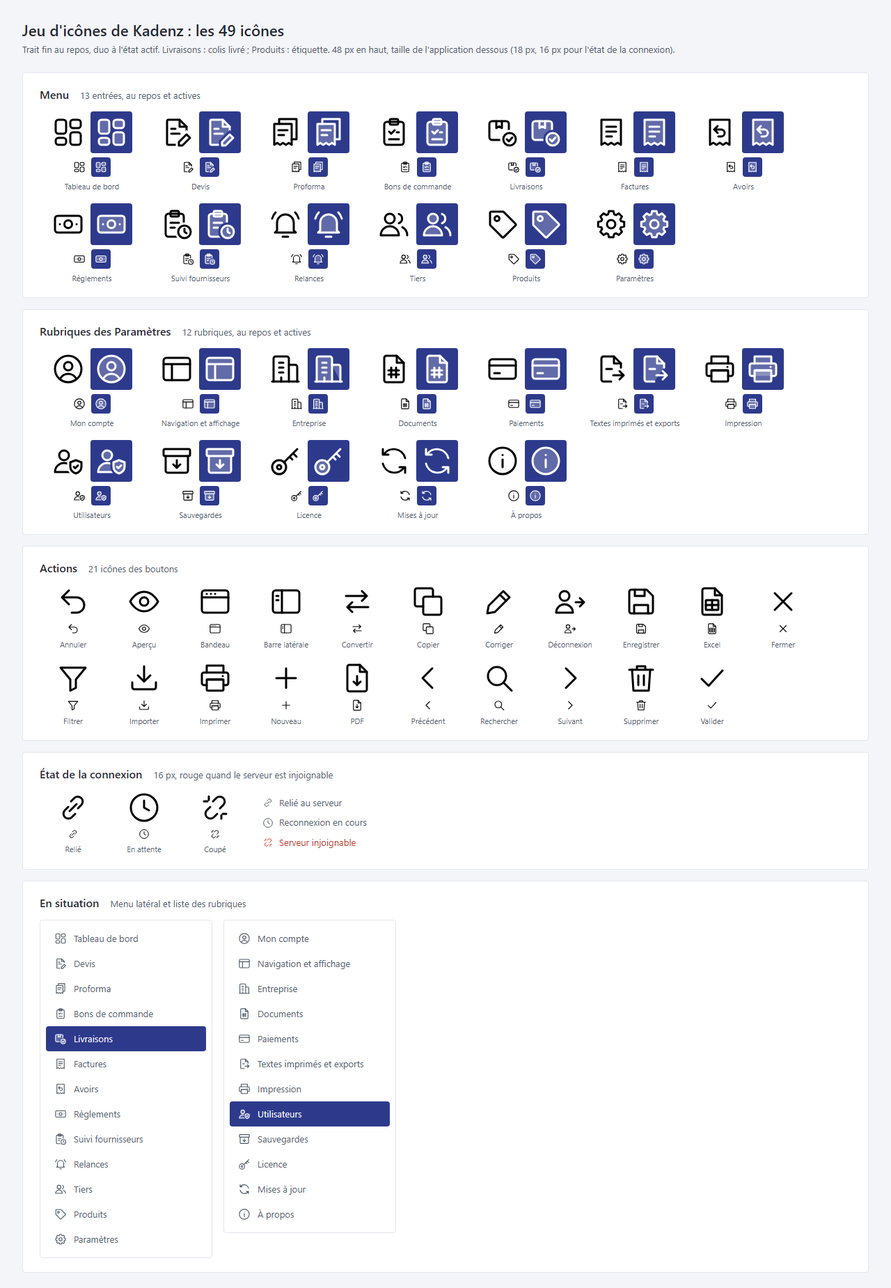
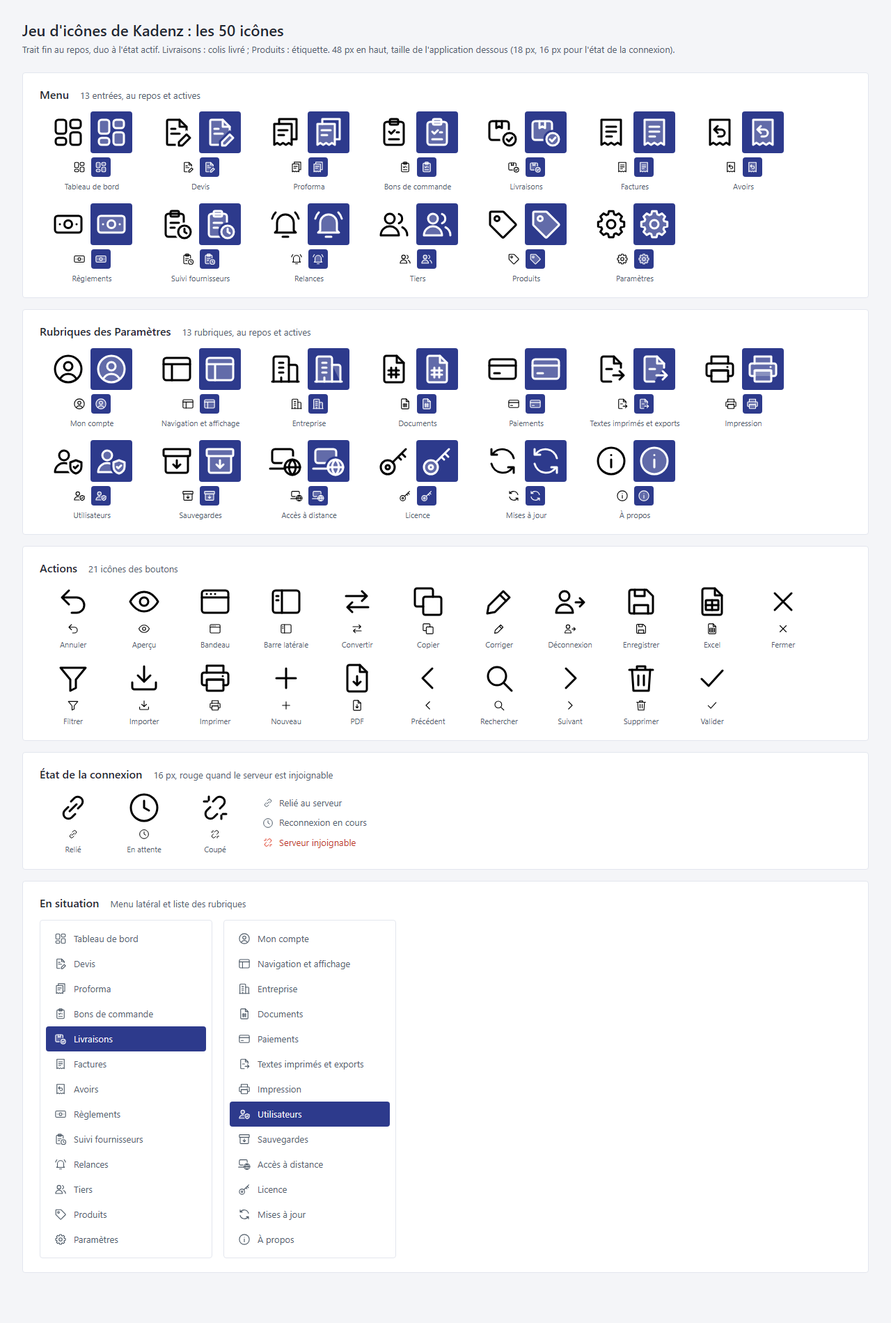
Interface : icône de la rubrique Accès à distance (portable et globe, version active teintée)

diff --git a/docs/marque/propositions-2026-11-14-icones/planche-v3.html b/docs/marque/propositions-2026-11-14-icones/planche-v3.html
@@ -26,17 +26,17 @@ img.gris { filter: invert(36%) sepia(10%) saturate(700%) hue-rotate(170deg) brig
 img.blanc { filter: invert(1); }
 img.rouge { filter: invert(27%) sepia(68%) saturate(2400%) hue-rotate(347deg) brightness(88%); }
 </style></head><body>
-<header><h1>Jeu d'icônes de Kadenz : les 49 icônes</h1>
+<header><h1>Jeu d'icônes de Kadenz : les 50 icônes</h1>
 <p>Trait fin au repos, duo à l'état actif. Livraisons : colis livré ; Produits : étiquette. 48 px en haut, taille de l'application dessous (18 px, 16 px pour l'état de la connexion).</p></header>
 <section><div class="tete"><h2>Menu</h2><p>13 entrées, au repos et actives</p></div>
 <div class="grille"><figure><div class="paire"><img src="icones/jeu/menu/tableau-de-bord.svg" width="48" height="48"><span class="tuile"><img class="blanc" src="icones/jeu/menu/tableau-de-bord-actif.svg" width="48" height="48"></span></div><div class="paire petite"><img src="icones/jeu/menu/tableau-de-bord.svg" width="18" height="18"><span class="tuile"><img class="blanc" src="icones/jeu/menu/tableau-de-bord-actif.svg" width="18" height="18"></span></div><figcaption>Tableau de bord</figcaption></figure><figure><div class="paire"><img src="icones/jeu/menu/devis.svg" width="48" height="48"><span class="tuile"><img class="blanc" src="icones/jeu/menu/devis-actif.svg" width="48" height="48"></span></div><div class="paire petite"><img src="icones/jeu/menu/devis.svg" width="18" height="18"><span class="tuile"><img class="blanc" src="icones/jeu/menu/devis-actif.svg" width="18" height="18"></span></div><figcaption>Devis</figcaption></figure><figure><div class="paire"><img src="icones/jeu/menu/proforma.svg" width="48" height="48"><span class="tuile"><img class="blanc" src="icones/jeu/menu/proforma-actif.svg" width="48" height="48"></span></div><div class="paire petite"><img src="icones/jeu/menu/proforma.svg" width="18" height="18"><span class="tuile"><img class="blanc" src="icones/jeu/menu/proforma-actif.svg" width="18" height="18"></span></div><figcaption>Proforma</figcaption></figure><figure><div class="paire"><img src="icones/jeu/menu/bons-commande.svg" width="48" height="48"><span class="tuile"><img class="blanc" src="icones/jeu/menu/bons-commande-actif.svg" width="48" height="48"></span></div><div class="paire petite"><img src="icones/jeu/menu/bons-commande.svg" width="18" height="18"><span class="tuile"><img class="blanc" src="icones/jeu/menu/bons-commande-actif.svg" width="18" height="18"></span></div><figcaption>Bons de commande</figcaption></figure><figure><div class="paire"><img src="icones/jeu/menu/livraisons.svg" width="48" height="48"><span class="tuile"><img class="blanc" src="icones/jeu/menu/livraisons-actif.svg" width="48" height="48"></span></div><div class="paire petite"><img src="icones/jeu/menu/livraisons.svg" width="18" height="18"><span class="tuile"><img class="blanc" src="icones/jeu/menu/livraisons-actif.svg" width="18" height="18"></span></div><figcaption>Livraisons</figcaption></figure><figure><div class="paire"><img src="icones/jeu/menu/factures.svg" width="48" height="48"><span class="tuile"><img class="blanc" src="icones/jeu/menu/factures-actif.svg" width="48" height="48"></span></div><div class="paire petite"><img src="icones/jeu/menu/factures.svg" width="18" height="18"><span class="tuile"><img class="blanc" src="icones/jeu/menu/factures-actif.svg" width="18" height="18"></span></div><figcaption>Factures</figcaption></figure><figure><div class="paire"><img src="icones/jeu/menu/avoirs.svg" width="48" height="48"><span class="tuile"><img class="blanc" src="icones/jeu/menu/avoirs-actif.svg" width="48" height="48"></span></div><div class="paire petite"><img src="icones/jeu/menu/avoirs.svg" width="18" height="18"><span class="tuile"><img class="blanc" src="icones/jeu/menu/avoirs-actif.svg" width="18" height="18"></span></div><figcaption>Avoirs</figcaption></figure><figure><div class="paire"><img src="icones/jeu/menu/reglements.svg" width="48" height="48"><span class="tuile"><img class="blanc" src="icones/jeu/menu/reglements-actif.svg" width="48" height="48"></span></div><div class="paire petite"><img src="icones/jeu/menu/reglements.svg" width="18" height="18"><span class="tuile"><img class="blanc" src="icones/jeu/menu/reglements-actif.svg" width="18" height="18"></span></div><figcaption>Règlements</figcaption></figure><figure><div class="paire"><img src="icones/jeu/menu/suivi-fournisseurs.svg" width="48" height="48"><span class="tuile"><img class="blanc" src="icones/jeu/menu/suivi-fournisseurs-actif.svg" width="48" height="48"></span></div><div class="paire petite"><img src="icones/jeu/menu/suivi-fournisseurs.svg" width="18" height="18"><span class="tuile"><img class="blanc" src="icones/jeu/menu/suivi-fournisseurs-actif.svg" width="18" height="18"></span></div><figcaption>Suivi fournisseurs</figcaption></figure><figure><div class="paire"><img src="icones/jeu/menu/relances.svg" width="48" height="48"><span class="tuile"><img class="blanc" src="icones/jeu/menu/relances-actif.svg" width="48" height="48"></span></div><div class="paire petite"><img src="icones/jeu/menu/relances.svg" width="18" height="18"><span class="tuile"><img class="blanc" src="icones/jeu/menu/relances-actif.svg" width="18" height="18"></span></div><figcaption>Relances</figcaption></figure><figure><div class="paire"><img src="icones/jeu/menu/tiers.svg" width="48" height="48"><span class="tuile"><img class="blanc" src="icones/jeu/menu/tiers-actif.svg" width="48" height="48"></span></div><div class="paire petite"><img src="icones/jeu/menu/tiers.svg" width="18" height="18"><span class="tuile"><img class="blanc" src="icones/jeu/menu/tiers-actif.svg" width="18" height="18"></span></div><figcaption>Tiers</figcaption></figure><figure><div class="paire"><img src="icones/jeu/menu/produits.svg" width="48" height="48"><span class="tuile"><img class="blanc" src="icones/jeu/menu/produits-actif.svg" width="48" height="48"></span></div><div class="paire petite"><img src="icones/jeu/menu/produits.svg" width="18" height="18"><span class="tuile"><img class="blanc" src="icones/jeu/menu/produits-actif.svg" width="18" height="18"></span></div><figcaption>Produits</figcaption></figure><figure><div class="paire"><img src="icones/jeu/menu/parametres.svg" width="48" height="48"><span class="tuile"><img class="blanc" src="icones/jeu/menu/parametres-actif.svg" width="48" height="48"></span></div><div class="paire petite"><img src="icones/jeu/menu/parametres.svg" width="18" height="18"><span class="tuile"><img class="blanc" src="icones/jeu/menu/parametres-actif.svg" width="18" height="18"></span></div><figcaption>Paramètres</figcaption></figure></div></section>
-<section><div class="tete"><h2>Rubriques des Paramètres</h2><p>12 rubriques, au repos et actives</p></div>
-<div class="grille"><figure><div class="paire"><img src="icones/jeu/menu/mon-compte.svg" width="48" height="48"><span class="tuile"><img class="blanc" src="icones/jeu/menu/mon-compte-actif.svg" width="48" height="48"></span></div><div class="paire petite"><img src="icones/jeu/menu/mon-compte.svg" width="18" height="18"><span class="tuile"><img class="blanc" src="icones/jeu/menu/mon-compte-actif.svg" width="18" height="18"></span></div><figcaption>Mon compte</figcaption></figure><figure><div class="paire"><img src="icones/jeu/menu/navigation.svg" width="48" height="48"><span class="tuile"><img class="blanc" src="icones/jeu/menu/navigation-actif.svg" width="48" height="48"></span></div><div class="paire petite"><img src="icones/jeu/menu/navigation.svg" width="18" height="18"><span class="tuile"><img class="blanc" src="icones/jeu/menu/navigation-actif.svg" width="18" height="18"></span></div><figcaption>Navigation et affichage</figcaption></figure><figure><div class="paire"><img src="icones/jeu/menu/entreprise.svg" width="48" height="48"><span class="tuile"><img class="blanc" src="icones/jeu/menu/entreprise-actif.svg" width="48" height="48"></span></div><div class="paire petite"><img src="icones/jeu/menu/entreprise.svg" width="18" height="18"><span class="tuile"><img class="blanc" src="icones/jeu/menu/entreprise-actif.svg" width="18" height="18"></span></div><figcaption>Entreprise</figcaption></figure><figure><div class="paire"><img src="icones/jeu/menu/documents.svg" width="48" height="48"><span class="tuile"><img class="blanc" src="icones/jeu/menu/documents-actif.svg" width="48" height="48"></span></div><div class="paire petite"><img src="icones/jeu/menu/documents.svg" width="18" height="18"><span class="tuile"><img class="blanc" src="icones/jeu/menu/documents-actif.svg" width="18" height="18"></span></div><figcaption>Documents</figcaption></figure><figure><div class="paire"><img src="icones/jeu/menu/paiements.svg" width="48" height="48"><span class="tuile"><img class="blanc" src="icones/jeu/menu/paiements-actif.svg" width="48" height="48"></span></div><div class="paire petite"><img src="icones/jeu/menu/paiements.svg" width="18" height="18"><span class="tuile"><img class="blanc" src="icones/jeu/menu/paiements-actif.svg" width="18" height="18"></span></div><figcaption>Paiements</figcaption></figure><figure><div class="paire"><img src="icones/jeu/menu/exports.svg" width="48" height="48"><span class="tuile"><img class="blanc" src="icones/jeu/menu/exports-actif.svg" width="48" height="48"></span></div><div class="paire petite"><img src="icones/jeu/menu/exports.svg" width="18" height="18"><span class="tuile"><img class="blanc" src="icones/jeu/menu/exports-actif.svg" width="18" height="18"></span></div><figcaption>Textes imprimés et exports</figcaption></figure><figure><div class="paire"><img src="icones/jeu/menu/impression.svg" width="48" height="48"><span class="tuile"><img class="blanc" src="icones/jeu/menu/impression-actif.svg" width="48" height="48"></span></div><div class="paire petite"><img src="icones/jeu/menu/impression.svg" width="18" height="18"><span class="tuile"><img class="blanc" src="icones/jeu/menu/impression-actif.svg" width="18" height="18"></span></div><figcaption>Impression</figcaption></figure><figure><div class="paire"><img src="icones/jeu/menu/utilisateurs.svg" width="48" height="48"><span class="tuile"><img class="blanc" src="icones/jeu/menu/utilisateurs-actif.svg" width="48" height="48"></span></div><div class="paire petite"><img src="icones/jeu/menu/utilisateurs.svg" width="18" height="18"><span class="tuile"><img class="blanc" src="icones/jeu/menu/utilisateurs-actif.svg" width="18" height="18"></span></div><figcaption>Utilisateurs</figcaption></figure><figure><div class="paire"><img src="icones/jeu/menu/sauvegardes.svg" width="48" height="48"><span class="tuile"><img class="blanc" src="icones/jeu/menu/sauvegardes-actif.svg" width="48" height="48"></span></div><div class="paire petite"><img src="icones/jeu/menu/sauvegardes.svg" width="18" height="18"><span class="tuile"><img class="blanc" src="icones/jeu/menu/sauvegardes-actif.svg" width="18" height="18"></span></div><figcaption>Sauvegardes</figcaption></figure><figure><div class="paire"><img src="icones/jeu/menu/licence.svg" width="48" height="48"><span class="tuile"><img class="blanc" src="icones/jeu/menu/licence-actif.svg" width="48" height="48"></span></div><div class="paire petite"><img src="icones/jeu/menu/licence.svg" width="18" height="18"><span class="tuile"><img class="blanc" src="icones/jeu/menu/licence-actif.svg" width="18" height="18"></span></div><figcaption>Licence</figcaption></figure><figure><div class="paire"><img src="icones/jeu/menu/mises-a-jour.svg" width="48" height="48"><span class="tuile"><img class="blanc" src="icones/jeu/menu/mises-a-jour-actif.svg" width="48" height="48"></span></div><div class="paire petite"><img src="icones/jeu/menu/mises-a-jour.svg" width="18" height="18"><span class="tuile"><img class="blanc" src="icones/jeu/menu/mises-a-jour-actif.svg" width="18" height="18"></span></div><figcaption>Mises à jour</figcaption></figure><figure><div class="paire"><img src="icones/jeu/menu/a-propos.svg" width="48" height="48"><span class="tuile"><img class="blanc" src="icones/jeu/menu/a-propos-actif.svg" width="48" height="48"></span></div><div class="paire petite"><img src="icones/jeu/menu/a-propos.svg" width="18" height="18"><span class="tuile"><img class="blanc" src="icones/jeu/menu/a-propos-actif.svg" width="18" height="18"></span></div><figcaption>À propos</figcaption></figure></div></section>
+<section><div class="tete"><h2>Rubriques des Paramètres</h2><p>13 rubriques, au repos et actives</p></div>
+<div class="grille"><figure><div class="paire"><img src="icones/jeu/menu/mon-compte.svg" width="48" height="48"><span class="tuile"><img class="blanc" src="icones/jeu/menu/mon-compte-actif.svg" width="48" height="48"></span></div><div class="paire petite"><img src="icones/jeu/menu/mon-compte.svg" width="18" height="18"><span class="tuile"><img class="blanc" src="icones/jeu/menu/mon-compte-actif.svg" width="18" height="18"></span></div><figcaption>Mon compte</figcaption></figure><figure><div class="paire"><img src="icones/jeu/menu/navigation.svg" width="48" height="48"><span class="tuile"><img class="blanc" src="icones/jeu/menu/navigation-actif.svg" width="48" height="48"></span></div><div class="paire petite"><img src="icones/jeu/menu/navigation.svg" width="18" height="18"><span class="tuile"><img class="blanc" src="icones/jeu/menu/navigation-actif.svg" width="18" height="18"></span></div><figcaption>Navigation et affichage</figcaption></figure><figure><div class="paire"><img src="icones/jeu/menu/entreprise.svg" width="48" height="48"><span class="tuile"><img class="blanc" src="icones/jeu/menu/entreprise-actif.svg" width="48" height="48"></span></div><div class="paire petite"><img src="icones/jeu/menu/entreprise.svg" width="18" height="18"><span class="tuile"><img class="blanc" src="icones/jeu/menu/entreprise-actif.svg" width="18" height="18"></span></div><figcaption>Entreprise</figcaption></figure><figure><div class="paire"><img src="icones/jeu/menu/documents.svg" width="48" height="48"><span class="tuile"><img class="blanc" src="icones/jeu/menu/documents-actif.svg" width="48" height="48"></span></div><div class="paire petite"><img src="icones/jeu/menu/documents.svg" width="18" height="18"><span class="tuile"><img class="blanc" src="icones/jeu/menu/documents-actif.svg" width="18" height="18"></span></div><figcaption>Documents</figcaption></figure><figure><div class="paire"><img src="icones/jeu/menu/paiements.svg" width="48" height="48"><span class="tuile"><img class="blanc" src="icones/jeu/menu/paiements-actif.svg" width="48" height="48"></span></div><div class="paire petite"><img src="icones/jeu/menu/paiements.svg" width="18" height="18"><span class="tuile"><img class="blanc" src="icones/jeu/menu/paiements-actif.svg" width="18" height="18"></span></div><figcaption>Paiements</figcaption></figure><figure><div class="paire"><img src="icones/jeu/menu/exports.svg" width="48" height="48"><span class="tuile"><img class="blanc" src="icones/jeu/menu/exports-actif.svg" width="48" height="48"></span></div><div class="paire petite"><img src="icones/jeu/menu/exports.svg" width="18" height="18"><span class="tuile"><img class="blanc" src="icones/jeu/menu/exports-actif.svg" width="18" height="18"></span></div><figcaption>Textes imprimés et exports</figcaption></figure><figure><div class="paire"><img src="icones/jeu/menu/impression.svg" width="48" height="48"><span class="tuile"><img class="blanc" src="icones/jeu/menu/impression-actif.svg" width="48" height="48"></span></div><div class="paire petite"><img src="icones/jeu/menu/impression.svg" width="18" height="18"><span class="tuile"><img class="blanc" src="icones/jeu/menu/impression-actif.svg" width="18" height="18"></span></div><figcaption>Impression</figcaption></figure><figure><div class="paire"><img src="icones/jeu/menu/utilisateurs.svg" width="48" height="48"><span class="tuile"><img class="blanc" src="icones/jeu/menu/utilisateurs-actif.svg" width="48" height="48"></span></div><div class="paire petite"><img src="icones/jeu/menu/utilisateurs.svg" width="18" height="18"><span class="tuile"><img class="blanc" src="icones/jeu/menu/utilisateurs-actif.svg" width="18" height="18"></span></div><figcaption>Utilisateurs</figcaption></figure><figure><div class="paire"><img src="icones/jeu/menu/sauvegardes.svg" width="48" height="48"><span class="tuile"><img class="blanc" src="icones/jeu/menu/sauvegardes-actif.svg" width="48" height="48"></span></div><div class="paire petite"><img src="icones/jeu/menu/sauvegardes.svg" width="18" height="18"><span class="tuile"><img class="blanc" src="icones/jeu/menu/sauvegardes-actif.svg" width="18" height="18"></span></div><figcaption>Sauvegardes</figcaption></figure><figure><div class="paire"><img src="icones/jeu/menu/acces-distant.svg" width="48" height="48"><span class="tuile"><img class="blanc" src="icones/jeu/menu/acces-distant-actif.svg" width="48" height="48"></span></div><div class="paire petite"><img src="icones/jeu/menu/acces-distant.svg" width="18" height="18"><span class="tuile"><img class="blanc" src="icones/jeu/menu/acces-distant-actif.svg" width="18" height="18"></span></div><figcaption>Accès à distance</figcaption></figure><figure><div class="paire"><img src="icones/jeu/menu/licence.svg" width="48" height="48"><span class="tuile"><img class="blanc" src="icones/jeu/menu/licence-actif.svg" width="48" height="48"></span></div><div class="paire petite"><img src="icones/jeu/menu/licence.svg" width="18" height="18"><span class="tuile"><img class="blanc" src="icones/jeu/menu/licence-actif.svg" width="18" height="18"></span></div><figcaption>Licence</figcaption></figure><figure><div class="paire"><img src="icones/jeu/menu/mises-a-jour.svg" width="48" height="48"><span class="tuile"><img class="blanc" src="icones/jeu/menu/mises-a-jour-actif.svg" width="48" height="48"></span></div><div class="paire petite"><img src="icones/jeu/menu/mises-a-jour.svg" width="18" height="18"><span class="tuile"><img class="blanc" src="icones/jeu/menu/mises-a-jour-actif.svg" width="18" height="18"></span></div><figcaption>Mises à jour</figcaption></figure><figure><div class="paire"><img src="icones/jeu/menu/a-propos.svg" width="48" height="48"><span class="tuile"><img class="blanc" src="icones/jeu/menu/a-propos-actif.svg" width="48" height="48"></span></div><div class="paire petite"><img src="icones/jeu/menu/a-propos.svg" width="18" height="18"><span class="tuile"><img class="blanc" src="icones/jeu/menu/a-propos-actif.svg" width="18" height="18"></span></div><figcaption>À propos</figcaption></figure></div></section>
 <section><div class="tete"><h2>Actions</h2><p>21 icônes des boutons</p></div>
 <div class="grille simple"><figure><div class="paire"><img src="icones/jeu/actions/annuler.svg" width="48" height="48"></div><div class="paire petite"><img src="icones/jeu/actions/annuler.svg" width="18" height="18"></div><figcaption>Annuler</figcaption></figure><figure><div class="paire"><img src="icones/jeu/actions/apercu.svg" width="48" height="48"></div><div class="paire petite"><img src="icones/jeu/actions/apercu.svg" width="18" height="18"></div><figcaption>Aperçu</figcaption></figure><figure><div class="paire"><img src="icones/jeu/actions/bandeau.svg" width="48" height="48"></div><div class="paire petite"><img src="icones/jeu/actions/bandeau.svg" width="18" height="18"></div><figcaption>Bandeau</figcaption></figure><figure><div class="paire"><img src="icones/jeu/actions/barre.svg" width="48" height="48"></div><div class="paire petite"><img src="icones/jeu/actions/barre.svg" width="18" height="18"></div><figcaption>Barre latérale</figcaption></figure><figure><div class="paire"><img src="icones/jeu/actions/convertir.svg" width="48" height="48"></div><div class="paire petite"><img src="icones/jeu/actions/convertir.svg" width="18" height="18"></div><figcaption>Convertir</figcaption></figure><figure><div class="paire"><img src="icones/jeu/actions/copier.svg" width="48" height="48"></div><div class="paire petite"><img src="icones/jeu/actions/copier.svg" width="18" height="18"></div><figcaption>Copier</figcaption></figure><figure><div class="paire"><img src="icones/jeu/actions/corriger.svg" width="48" height="48"></div><div class="paire petite"><img src="icones/jeu/actions/corriger.svg" width="18" height="18"></div><figcaption>Corriger</figcaption></figure><figure><div class="paire"><img src="icones/jeu/actions/deconnexion.svg" width="48" height="48"></div><div class="paire petite"><img src="icones/jeu/actions/deconnexion.svg" width="18" height="18"></div><figcaption>Déconnexion</figcaption></figure><figure><div class="paire"><img src="icones/jeu/actions/enregistrer.svg" width="48" height="48"></div><div class="paire petite"><img src="icones/jeu/actions/enregistrer.svg" width="18" height="18"></div><figcaption>Enregistrer</figcaption></figure><figure><div class="paire"><img src="icones/jeu/actions/excel.svg" width="48" height="48"></div><div class="paire petite"><img src="icones/jeu/actions/excel.svg" width="18" height="18"></div><figcaption>Excel</figcaption></figure><figure><div class="paire"><img src="icones/jeu/actions/fermer.svg" width="48" height="48"></div><div class="paire petite"><img src="icones/jeu/actions/fermer.svg" width="18" height="18"></div><figcaption>Fermer</figcaption></figure><figure><div class="paire"><img src="icones/jeu/actions/filtrer.svg" width="48" height="48"></div><div class="paire petite"><img src="icones/jeu/actions/filtrer.svg" width="18" height="18"></div><figcaption>Filtrer</figcaption></figure><figure><div class="paire"><img src="icones/jeu/actions/importer.svg" width="48" height="48"></div><div class="paire petite"><img src="icones/jeu/actions/importer.svg" width="18" height="18"></div><figcaption>Importer</figcaption></figure><figure><div class="paire"><img src="icones/jeu/actions/imprimer.svg" width="48" height="48"></div><div class="paire petite"><img src="icones/jeu/actions/imprimer.svg" width="18" height="18"></div><figcaption>Imprimer</figcaption></figure><figure><div class="paire"><img src="icones/jeu/actions/nouveau.svg" width="48" height="48"></div><div class="paire petite"><img src="icones/jeu/actions/nouveau.svg" width="18" height="18"></div><figcaption>Nouveau</figcaption></figure><figure><div class="paire"><img src="icones/jeu/actions/pdf.svg" width="48" height="48"></div><div class="paire petite"><img src="icones/jeu/actions/pdf.svg" width="18" height="18"></div><figcaption>PDF</figcaption></figure><figure><div class="paire"><img src="icones/jeu/actions/precedent.svg" width="48" height="48"></div><div class="paire petite"><img src="icones/jeu/actions/precedent.svg" width="18" height="18"></div><figcaption>Précédent</figcaption></figure><figure><div class="paire"><img src="icones/jeu/actions/rechercher.svg" width="48" height="48"></div><div class="paire petite"><img src="icones/jeu/actions/rechercher.svg" width="18" height="18"></div><figcaption>Rechercher</figcaption></figure><figure><div class="paire"><img src="icones/jeu/actions/suivant.svg" width="48" height="48"></div><div class="paire petite"><img src="icones/jeu/actions/suivant.svg" width="18" height="18"></div><figcaption>Suivant</figcaption></figure><figure><div class="paire"><img src="icones/jeu/actions/supprimer.svg" width="48" height="48"></div><div class="paire petite"><img src="icones/jeu/actions/supprimer.svg" width="18" height="18"></div><figcaption>Supprimer</figcaption></figure><figure><div class="paire"><img src="icones/jeu/actions/valider.svg" width="48" height="48"></div><div class="paire petite"><img src="icones/jeu/actions/valider.svg" width="18" height="18"></div><figcaption>Valider</figcaption></figure></div></section>
 <section><div class="tete"><h2>État de la connexion</h2><p>16 px, rouge quand le serveur est injoignable</p></div>
 <div class="menus"><div class="grille simple" style="grid-template-columns: repeat(3, 96px)"><figure><div class="paire"><img src="icones/jeu/etat/relie.svg" width="48" height="48"></div><div class="paire petite"><img src="icones/jeu/etat/relie.svg" width="16" height="16"></div><figcaption>Relié</figcaption></figure><figure><div class="paire"><img src="icones/jeu/etat/attente.svg" width="48" height="48"></div><div class="paire petite"><img src="icones/jeu/etat/attente.svg" width="16" height="16"></div><figcaption>En attente</figcaption></figure><figure><div class="paire"><img src="icones/jeu/etat/coupe.svg" width="48" height="48"></div><div class="paire petite"><img src="icones/jeu/etat/coupe.svg" width="16" height="16"></div><figcaption>Coupé</figcaption></figure></div>
 <div class="etats"><div class="etat gris"><img class="gris" src="icones/jeu/etat/relie.svg" width="16" height="16"><span>Relié au serveur</span></div><div class="etat gris"><img class="gris" src="icones/jeu/etat/attente.svg" width="16" height="16"><span>Reconnexion en cours</span></div><div class="etat rouge"><img class="rouge" src="icones/jeu/etat/coupe.svg" width="16" height="16"><span>Serveur injoignable</span></div></div></div></section>
 <section><div class="tete"><h2>En situation</h2><p>Menu latéral et liste des rubriques</p></div>
-<div class="menus"><nav><div class="entree"><img class="gris" src="icones/jeu/menu/tableau-de-bord.svg" width="18" height="18"><span>Tableau de bord</span></div><div class="entree"><img class="gris" src="icones/jeu/menu/devis.svg" width="18" height="18"><span>Devis</span></div><div class="entree"><img class="gris" src="icones/jeu/menu/proforma.svg" width="18" height="18"><span>Proforma</span></div><div class="entree"><img class="gris" src="icones/jeu/menu/bons-commande.svg" width="18" height="18"><span>Bons de commande</span></div><div class="entree actif"><img class="blanc" src="icones/jeu/menu/livraisons-actif.svg" width="18" height="18"><span>Livraisons</span></div><div class="entree"><img class="gris" src="icones/jeu/menu/factures.svg" width="18" height="18"><span>Factures</span></div><div class="entree"><img class="gris" src="icones/jeu/menu/avoirs.svg" width="18" height="18"><span>Avoirs</span></div><div class="entree"><img class="gris" src="icones/jeu/menu/reglements.svg" width="18" height="18"><span>Règlements</span></div><div class="entree"><img class="gris" src="icones/jeu/menu/suivi-fournisseurs.svg" width="18" height="18"><span>Suivi fournisseurs</span></div><div class="entree"><img class="gris" src="icones/jeu/menu/relances.svg" width="18" height="18"><span>Relances</span></div><div class="entree"><img class="gris" src="icones/jeu/menu/tiers.svg" width="18" height="18"><span>Tiers</span></div><div class="entree"><img class="gris" src="icones/jeu/menu/produits.svg" width="18" height="18"><span>Produits</span></div><div class="entree"><img class="gris" src="icones/jeu/menu/parametres.svg" width="18" height="18"><span>Paramètres</span></div></nav><nav><div class="entree"><img class="gris" src="icones/jeu/menu/mon-compte.svg" width="18" height="18"><span>Mon compte</span></div><div class="entree"><img class="gris" src="icones/jeu/menu/navigation.svg" width="18" height="18"><span>Navigation et affichage</span></div><div class="entree"><img class="gris" src="icones/jeu/menu/entreprise.svg" width="18" height="18"><span>Entreprise</span></div><div class="entree"><img class="gris" src="icones/jeu/menu/documents.svg" width="18" height="18"><span>Documents</span></div><div class="entree"><img class="gris" src="icones/jeu/menu/paiements.svg" width="18" height="18"><span>Paiements</span></div><div class="entree"><img class="gris" src="icones/jeu/menu/exports.svg" width="18" height="18"><span>Textes imprimés et exports</span></div><div class="entree"><img class="gris" src="icones/jeu/menu/impression.svg" width="18" height="18"><span>Impression</span></div><div class="entree actif"><img class="blanc" src="icones/jeu/menu/utilisateurs-actif.svg" width="18" height="18"><span>Utilisateurs</span></div><div class="entree"><img class="gris" src="icones/jeu/menu/sauvegardes.svg" width="18" height="18"><span>Sauvegardes</span></div><div class="entree"><img class="gris" src="icones/jeu/menu/licence.svg" width="18" height="18"><span>Licence</span></div><div class="entree"><img class="gris" src="icones/jeu/menu/mises-a-jour.svg" width="18" height="18"><span>Mises à jour</span></div><div class="entree"><img class="gris" src="icones/jeu/menu/a-propos.svg" width="18" height="18"><span>À propos</span></div></nav></div></section>
+<div class="menus"><nav><div class="entree"><img class="gris" src="icones/jeu/menu/tableau-de-bord.svg" width="18" height="18"><span>Tableau de bord</span></div><div class="entree"><img class="gris" src="icones/jeu/menu/devis.svg" width="18" height="18"><span>Devis</span></div><div class="entree"><img class="gris" src="icones/jeu/menu/proforma.svg" width="18" height="18"><span>Proforma</span></div><div class="entree"><img class="gris" src="icones/jeu/menu/bons-commande.svg" width="18" height="18"><span>Bons de commande</span></div><div class="entree actif"><img class="blanc" src="icones/jeu/menu/livraisons-actif.svg" width="18" height="18"><span>Livraisons</span></div><div class="entree"><img class="gris" src="icones/jeu/menu/factures.svg" width="18" height="18"><span>Factures</span></div><div class="entree"><img class="gris" src="icones/jeu/menu/avoirs.svg" width="18" height="18"><span>Avoirs</span></div><div class="entree"><img class="gris" src="icones/jeu/menu/reglements.svg" width="18" height="18"><span>Règlements</span></div><div class="entree"><img class="gris" src="icones/jeu/menu/suivi-fournisseurs.svg" width="18" height="18"><span>Suivi fournisseurs</span></div><div class="entree"><img class="gris" src="icones/jeu/menu/relances.svg" width="18" height="18"><span>Relances</span></div><div class="entree"><img class="gris" src="icones/jeu/menu/tiers.svg" width="18" height="18"><span>Tiers</span></div><div class="entree"><img class="gris" src="icones/jeu/menu/produits.svg" width="18" height="18"><span>Produits</span></div><div class="entree"><img class="gris" src="icones/jeu/menu/parametres.svg" width="18" height="18"><span>Paramètres</span></div></nav><nav><div class="entree"><img class="gris" src="icones/jeu/menu/mon-compte.svg" width="18" height="18"><span>Mon compte</span></div><div class="entree"><img class="gris" src="icones/jeu/menu/navigation.svg" width="18" height="18"><span>Navigation et affichage</span></div><div class="entree"><img class="gris" src="icones/jeu/menu/entreprise.svg" width="18" height="18"><span>Entreprise</span></div><div class="entree"><img class="gris" src="icones/jeu/menu/documents.svg" width="18" height="18"><span>Documents</span></div><div class="entree"><img class="gris" src="icones/jeu/menu/paiements.svg" width="18" height="18"><span>Paiements</span></div><div class="entree"><img class="gris" src="icones/jeu/menu/exports.svg" width="18" height="18"><span>Textes imprimés et exports</span></div><div class="entree"><img class="gris" src="icones/jeu/menu/impression.svg" width="18" height="18"><span>Impression</span></div><div class="entree actif"><img class="blanc" src="icones/jeu/menu/utilisateurs-actif.svg" width="18" height="18"><span>Utilisateurs</span></div><div class="entree"><img class="gris" src="icones/jeu/menu/sauvegardes.svg" width="18" height="18"><span>Sauvegardes</span></div><div class="entree"><img class="gris" src="icones/jeu/menu/acces-distant.svg" width="18" height="18"><span>Accès à distance</span></div><div class="entree"><img class="gris" src="icones/jeu/menu/licence.svg" width="18" height="18"><span>Licence</span></div><div class="entree"><img class="gris" src="icones/jeu/menu/mises-a-jour.svg" width="18" height="18"><span>Mises à jour</span></div><div class="entree"><img class="gris" src="icones/jeu/menu/a-propos.svg" width="18" height="18"><span>À propos</span></div></nav></div></section>
 </body></html>

diff --git a/docs/marque/propositions-2026-11-14-icones/generer_v3.py b/docs/marque/propositions-2026-11-14-icones/generer_v3.py
@@ -1,4 +1,4 @@
-"""Troisième tour des icônes (2026-11-14) : le jeu complet, 49 icônes, dans le style retenu.
+"""Troisième tour des icônes (2026-11-14) : le jeu complet, 49 icônes, dans le style retenu (50 avec Accès à distance, ajoutée le 2026-11-15).
 
 Choix de l'utilisateur : trait fin de A au repos, duo de B à l'état actif ; Livraisons en L1
 (colis livré), Produits en étiquette. Ce tour dessine les 34 icônes restantes et range le jeu
@@ -79,6 +79,14 @@ NOUVELLES = {
         ("dessus", chemin("M17.5 11.5l4 1.5v3c0 2.5-1.8 4.3-4 5-2.2-.7-4-2.5-4-5v-3Z")),
         ("trait", chemin("M16 16.25l1 1 2-2")),
     ],
+    # Accès à distance (F8b, 2026-11-15) : poste hors du bureau relié au serveur par le relais
+    "acces-distant": [
+        ("corps", rect(2.5, 3.5, 15, 10)),
+        ("trait", chemin("M1 17.5h11")),
+        ("dessus", cercle(17, 16.5, 5.5)),
+        ("trait", chemin("M11.5 16.5h11")),
+        ("trait", chemin("M17 11c-1.6 1.5-2.4 3.3-2.4 5.5s.8 4 2.4 5.5c1.6-1.5 2.4-3.3 2.4-5.5s-.8-4-2.4-5.5Z")),
+    ],
     # --- actions ---
     "annuler": [("trait", chemin("M9 14 4 9l5-5M4 9h10.5a5.5 5.5 0 0 1 0 11H11"))],
     "apercu": [
@@ -144,7 +152,7 @@ MENU.update({"livraisons": "livraisons-colis-livre", "produits": "produits-etiqu
 ORDRE_MENU = ["tableau-de-bord", "devis", "proforma", "bons-commande", "livraisons", "factures", "avoirs",
               "reglements", "suivi-fournisseurs", "relances", "tiers", "produits", "parametres"]
 RUBRIQUES = ["mon-compte", "navigation", "entreprise", "documents", "paiements", "exports", "impression",
-             "utilisateurs", "sauvegardes", "licence", "mises-a-jour", "a-propos"]
+             "utilisateurs", "sauvegardes", "acces-distant", "licence", "mises-a-jour", "a-propos"]
 for r in RUBRIQUES:
     MENU[r] = "imprimer" if r == "impression" else r
 ACTIONS = ["annuler", "apercu", "bandeau", "barre", "convertir", "copier", "corriger", "deconnexion",
@@ -160,7 +168,7 @@ LIB = {
     "mon-compte": "Mon compte", "navigation": "Navigation et affichage", "entreprise": "Entreprise",
     "documents": "Documents", "paiements": "Paiements", "exports": "Textes imprimés et exports",
     "impression": "Impression", "utilisateurs": "Utilisateurs", "sauvegardes": "Sauvegardes",
-    "licence": "Licence", "mises-a-jour": "Mises à jour", "a-propos": "À propos",
+    "licence": "Licence", "acces-distant": "Accès à distance", "mises-a-jour": "Mises à jour", "a-propos": "À propos",
     "annuler": "Annuler", "apercu": "Aperçu", "bandeau": "Bandeau", "barre": "Barre latérale",
     "convertir": "Convertir", "copier": "Copier", "corriger": "Corriger", "deconnexion": "Déconnexion",
     "enregistrer": "Enregistrer", "excel": "Excel", "fermer": "Fermer", "filtrer": "Filtrer",
@@ -246,11 +254,11 @@ img.gris {{ filter: invert(36%) sepia(10%) saturate(700%) hue-rotate(170deg) bri
 img.blanc {{ filter: invert(1); }}
 img.rouge {{ filter: invert(27%) sepia(68%) saturate(2400%) hue-rotate(347deg) brightness(88%); }}
 </style></head><body>
-<header><h1>Jeu d'icônes de Kadenz : les 49 icônes</h1>
+<header><h1>Jeu d'icônes de Kadenz : les {len(ORDRE_MENU) + len(RUBRIQUES) + len(ACTIONS) + len(ETAT)} icônes</h1>
 <p>Trait fin au repos, duo à l'état actif. Livraisons : colis livré ; Produits : étiquette. 48 px en haut, taille de l'application dessous (18 px, 16 px pour l'état de la connexion).</p></header>
 <section><div class="tete"><h2>Menu</h2><p>13 entrées, au repos et actives</p></div>
 <div class="grille">{''.join(case_menu(n) for n in ORDRE_MENU)}</div></section>
-<section><div class="tete"><h2>Rubriques des Paramètres</h2><p>12 rubriques, au repos et actives</p></div>
+<section><div class="tete"><h2>Rubriques des Paramètres</h2><p>{len(RUBRIQUES)} rubriques, au repos et actives</p></div>
 <div class="grille">{''.join(case_menu(n) for n in RUBRIQUES)}</div></section>
 <section><div class="tete"><h2>Actions</h2><p>21 icônes des boutons</p></div>
 <div class="grille simple">{''.join(case_simple("actions", n) for n in ACTIONS)}</div></section>

diff --git a/docs/marque/README.md b/docs/marque/README.md
@@ -15,7 +15,7 @@ Statut : **« Quatre pièces »**, validée par l'utilisateur le 2026-11-11 et i
 
 - `crates/app/ui/composants.slint` : jetons de couleur `accent` (Indigo), `accent-survol`, `nuit`, `ambre` ; composants `Symbole` (icône sur tuile), `MotifMarque` (motif) et `TroisTemps` (les trois traits).
 - `crates/app/ui/icones/` : `kadenz-icone.svg`, `kadenz-logo-horizontal.svg`, `kadenz-logo-horizontal-negatif.svg`, `kadenz-32.png`, `kadenz-64.png`, `kadenz-256.png`, `motif-quatre-pieces.svg`.
-- Jeu d'icônes de l'interface (`crates/app/ui/icones/menu`, `actions`, `etat`, 49 icônes) : grille de 24, trait de 1,5 aux bouts arrondis au repos ; sur l'entrée active du menu et des rubriques des Paramètres, version `-actif.svg` à la silhouette teintée à 25 %. Livraisons : colis livré ; Produits : étiquette. Une seule couleur, recolorée par l'application. Source : `propositions-2026-11-14-icones/generer_v3.py` (choix de l'utilisateur du 2026-11-14).
+- Jeu d'icônes de l'interface (`crates/app/ui/icones/menu`, `actions`, `etat`, 50 icônes) : grille de 24, trait de 1,5 aux bouts arrondis au repos ; sur l'entrée active du menu et des rubriques des Paramètres, version `-actif.svg` à la silhouette teintée à 25 %. Livraisons : colis livré ; Produits : étiquette ; Accès à distance : portable et globe (2026-11-15). Une seule couleur, recolorée par l'application. Source : `propositions-2026-11-14-icones/generer_v3.py` (choix de l'utilisateur du 2026-11-14).
 - `crates/app/kadenz.ico` : icône de `kadenz.exe` (16 à 256 px), intégrée par `build.rs` via `winresource`.
 - Bandeaux de marque (connexion, présentation, assistant, réglages) : aplat Nuit, motif Quatre pièces serré (pas de 40 px) sur tout le panneau, logo en négatif ; trois temps au-dessus de « Gestion commerciale » (connexion, présentation).
 - Installateur : `installateur/theme/logo.png` et `logoside.png` sont produits par `installateur/theme/generer.py` à partir de `crates/app/kadenz.ico`.

diff --git a/.claude/journal.md b/.claude/journal.md
@@ -486,3 +486,4 @@
 [2026-11-15 07:29:22] Suivi - Forme du relais écrite (spec. synchronisation 0.19, section 7, proposé), F8 découpé en F8a, F8b et F8c (jalons 0.14), écrans section 9 alignée sur la décision 57.
 [2026-11-15 07:32:10] Suivi - F8 : avis envoyé à kadenz-a8 sur l API proposée pour les écrans F8b (erreur en modèle et valeurs, horodatage brut, hors connexion et lecture seule, relais absent, rafraîchissement 15 s, section Relais de la fenêtre du serveur avec validation dans regler_relais)
 [2026-11-15 07:38:09] Suivi - F8a : crate kadenz-relais (trames, preuve par défi signé, relais, côtés poste et serveur, traces 30 jours) avec essais en processus ; API F8b convenue avec kadenz-22 (MessageRelais, horodatage brut, lecture seule permise, Synchroniseur::distant).
+[2026-11-15 07:38:47] Suivi - Icône de la rubrique Accès à distance (F8b, demande de la session des écrans) : portable et globe, retenue parmi trois pistes (globe, ondes, serveur) après rendu resvg à 18 px ; ajoutée à generer_v3.py, déposée dans crates/app/ui/icones/menu (acces-distant et -actif).
